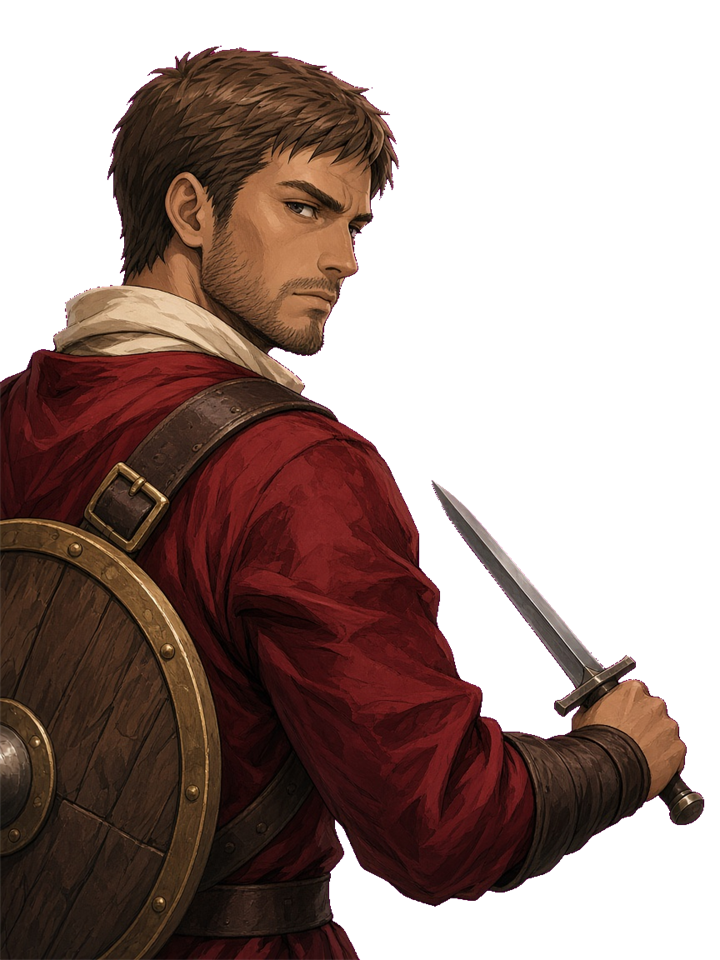
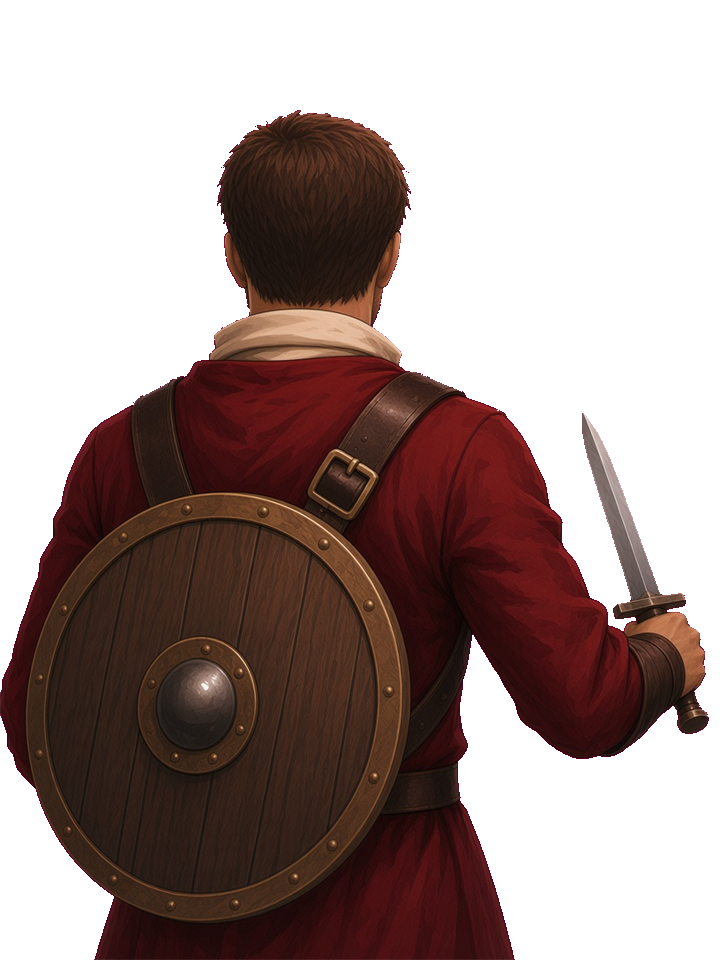
戦士を背中向きにして、キャラクターの動きを止める

diff --git a/index.html b/index.html
@@ -147,10 +147,10 @@
     .hero-shoulder {
       position: absolute;
       left: 0;
-      bottom: -10%;
+      bottom: 0;
       z-index: 3;
-      width: min(54%, 420px);
-      height: 132%;
+      width: min(52%, 420px);
+      height: 100%;
       pointer-events: none;
       display: flex;
       align-items: flex-end;
@@ -349,8 +349,6 @@
       height: 16px;
       background: #f4ead7;
       border-radius: 50%;
-      transform-origin: center;
-      animation: foe-blink 5.4s ease-in-out infinite;
     }
     .sprite .eye::after {
       content: "";
@@ -361,10 +359,9 @@
       border-radius: 50%;
       top: 5px;
       left: 5px;
-      animation: foe-look 7.2s ease-in-out infinite;
     }
     .sprite .eye.l { left: 34px; }
-    .sprite .eye.r { right: 34px; animation-delay: 0.12s; }
+    .sprite .eye.r { right: 34px; }
     .sprite { overflow: hidden; }
     .sprite.slash { animation: shake 0.45s linear; overflow: visible; }
     .dmg-pop {
@@ -1196,15 +1193,6 @@
       25% { transform: translateX(-6px); }
       50% { transform: translateX(5px); }
       75% { transform: translateX(-3px); }
-    }
-    @keyframes foe-blink {
-      0%, 40%, 50%, 100% { transform: scaleY(1); }
-      45% { transform: scaleY(0.14); }
-    }
-    @keyframes foe-look {
-      0%, 100% { transform: translate(0, 0); }
-      38% { transform: translate(1px, 0); }
-      72% { transform: translate(-1px, 1px); }
     }
     @keyframes dmg-pop {
       0% { opacity: 0; transform: translate(-50%, 10px) scale(0.7); }
@@ -2687,7 +2675,7 @@
     }
 
     function heroShoulder() {
-      return `<div class="hero-shoulder"><canvas class="hero-fig hero-live" aria-label="戦士"></canvas></div>`;
+      return `<div class="hero-shoulder"><img class="hero-fig" src="hero-shoulder.png?v=4" alt="戦士"></div>`;
     }
 
     function startHeroIdle() {
@@ -3144,7 +3132,6 @@
       enemy.hit = false;
       persistLive();
       kickHp();
-      startHeroIdle();
     }
 
     root.addEventListener("click", (event) => {
